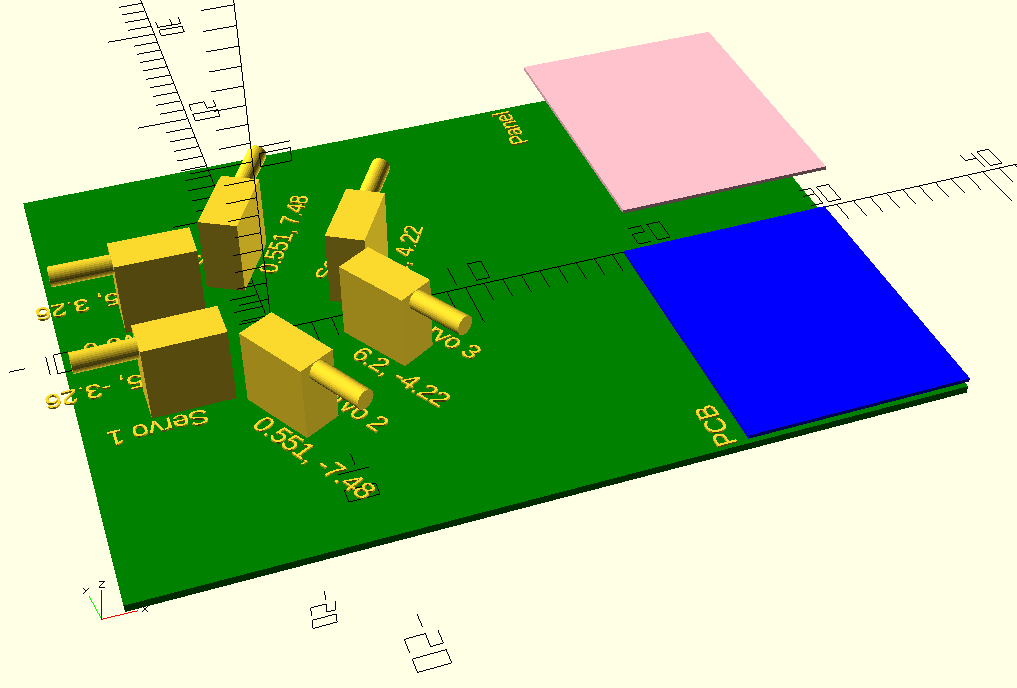
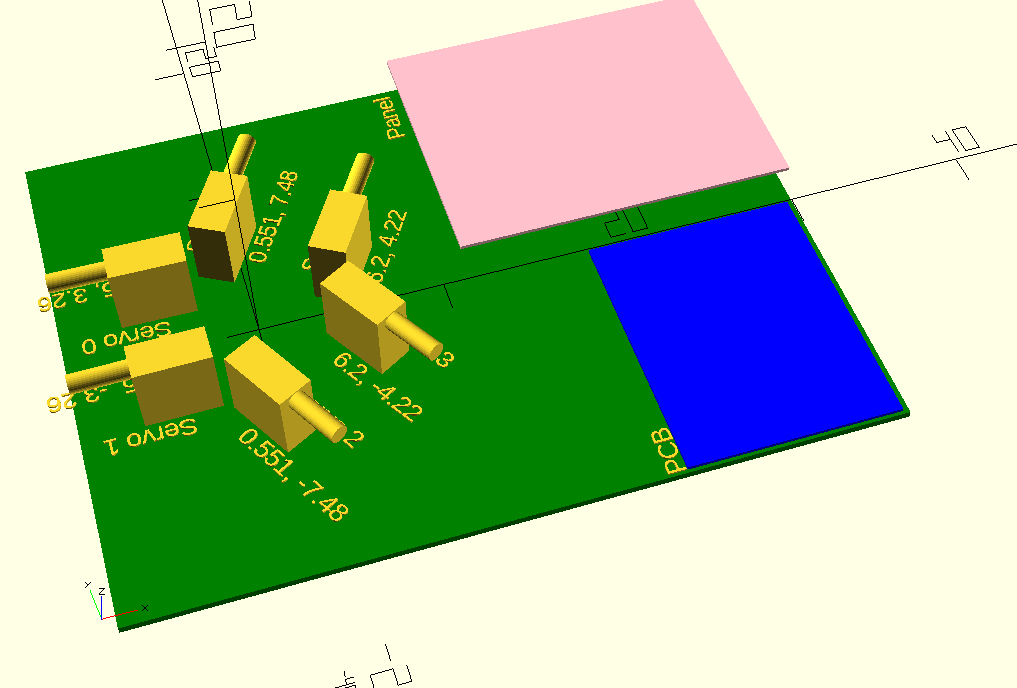
bigger panel

diff --git a/stewart.cpp b/stewart.cpp
@@ -1515,7 +1515,7 @@ color([1,0,0]) text(name, size=1);\n");
 
   // pcb
   fprintf (stdout, "translate([18.5, -15, 0.2]) color(\"blue\")		\
-	   cube([11.5, 14.6, .2]);\n");
+	   cube([21.5, 14.6, .2]);\n");
   fprintf (stdout, "linear_extrude(.1) translate([18, -15, 5.14]) color([1,0,0]) rotate([0, 0, 90]) {text(\"PCB\", size=1);}\n");
 
   // panel
